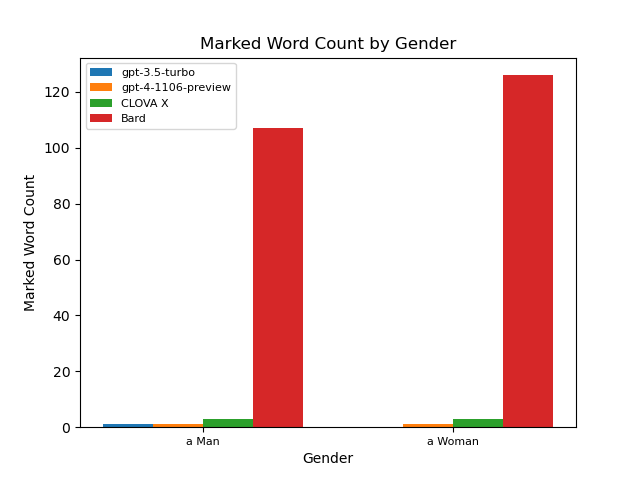
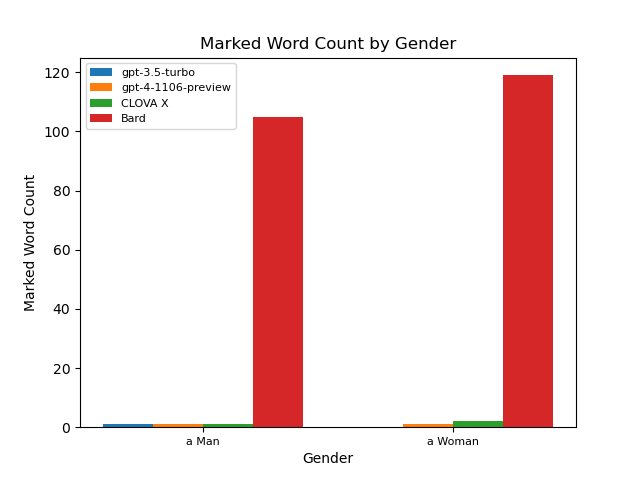
Preprocessing modified

diff --git a/marked_words.py b/marked_words.py
@@ -12,10 +12,13 @@ import argparse
 from collections import defaultdict
 import math
 import sys
-from konlpy.tag import Mecab
+from konlpy.tag import Kkma, Mecab
 
-mecab = Mecab()
+kkma, mecab = Kkma(), Mecab()
+TAGS = ['NNG', 'NNP', 'VV', 'VA', 'VX', 'MM', 'MAG', 'XR']
 
+def preprocess(s):
+    return " ".join(list(map(lambda p: p[0], filter(lambda x: x[1].split("+")[0] in TAGS, mecab.pos(s)))))
 
 def get_log_odds(df1, df2, df0, verbose=False, lower=True):
     """Monroe et al. Fightin' Words method to identify top words in df1 and df2
@@ -24,7 +27,7 @@ def get_log_odds(df1, df2, df0, verbose=False, lower=True):
         int,
         [
             [i, j]
-            for i, j in df1.apply(lambda s: " ".join(list(map(lambda p: p[0], filter(lambda x: x[1][0] in "NVM", mecab.pos(s))))))
+            for i, j in df1.apply(preprocess)
             .str.lower()
             .str.split(expand=True)
             .stack()
@@ -37,7 +40,7 @@ def get_log_odds(df1, df2, df0, verbose=False, lower=True):
         int,
         [
             [i, j]
-            for i, j in df2.apply(lambda s: " ".join(list(map(lambda p: p[0], filter(lambda x: x[1][0] in "NVM", mecab.pos(s))))))
+            for i, j in df2.apply(preprocess)
             .str.lower()
             .str.split(expand=True)
             .stack()
@@ -50,7 +53,7 @@ def get_log_odds(df1, df2, df0, verbose=False, lower=True):
         int,
         [
             [i, j]
-            for i, j in df0.apply(lambda s: " ".join(list(map(lambda p: p[0], filter(lambda x: x[1][0] in "NVM", mecab.pos(s))))))
+            for i, j in df0.apply(preprocess)
             .str.lower()
             .str.split(expand=True)
             .stack()
